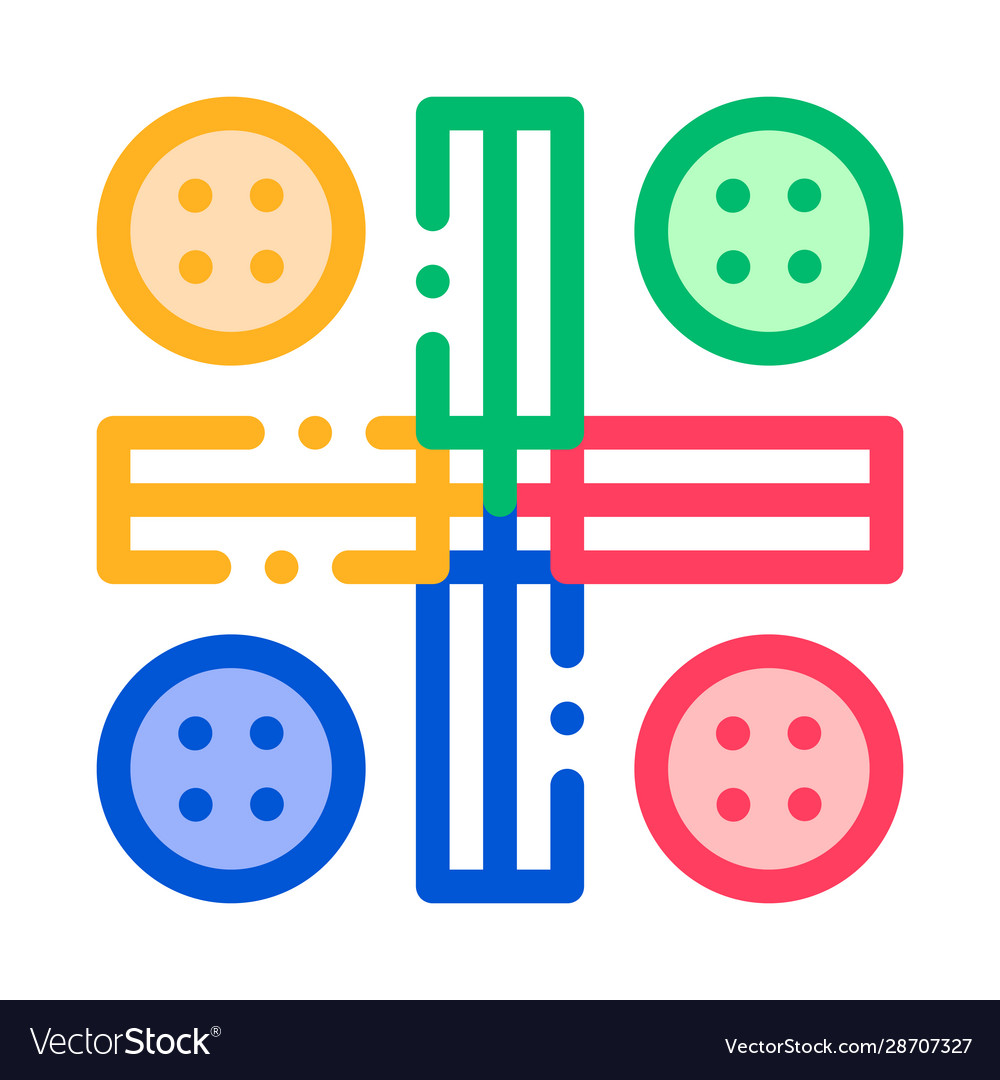
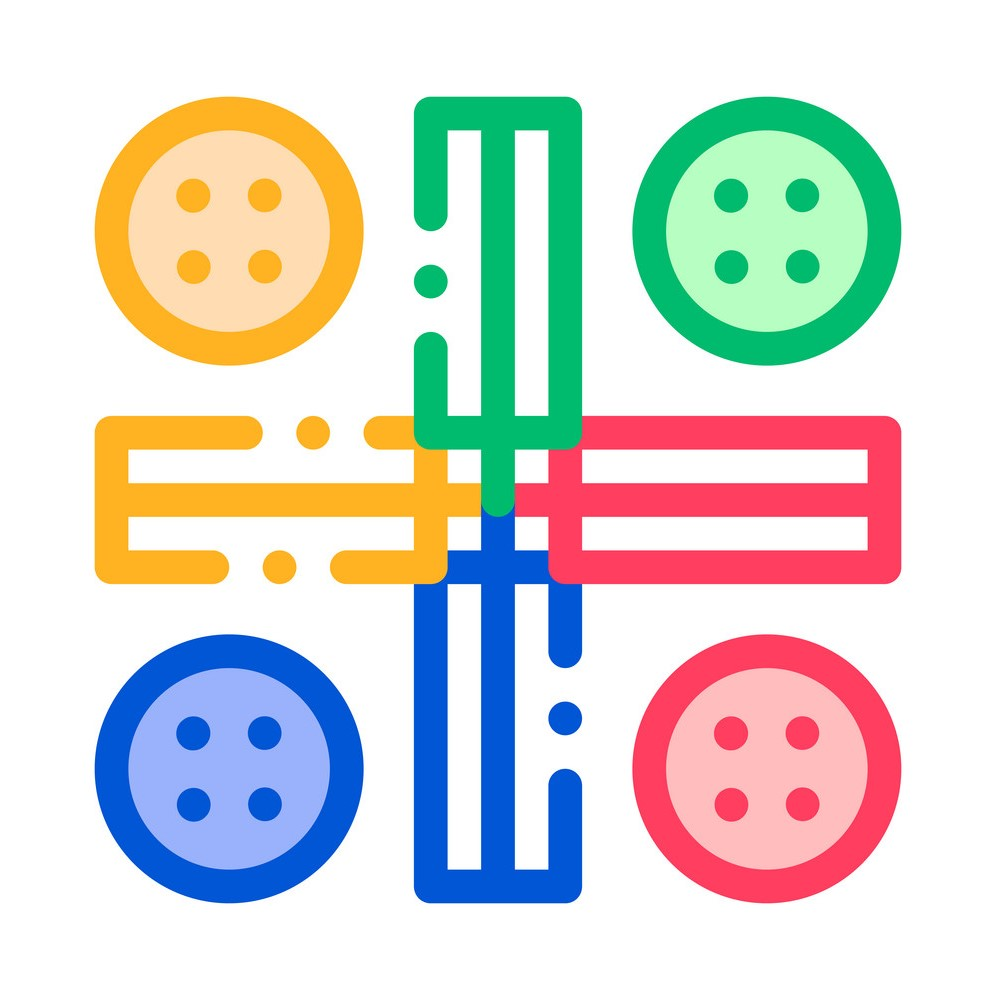
add window, background and imageicon in homeUi

diff --git a/ui/homeUi.py b/ui/homeUi.py
@@ -1,0 +1,42 @@
+import pygame
+pygame.init()
+
+gameRunning = True
+screen = pygame.display.set_mode((1450, 700))
+
+def setWindow():
+    pygame.display.set_caption("Ludo Board Game")
+    iconLogo = pygame.image.load("../asset/img/gameIcon.jpg")
+    pygame.display.set_icon(iconLogo)
+
+def setBackground():
+    background = pygame.image.load("../asset/img/gameBg.jpg")
+    background = pygame.transform.scale(background, (1450, 700))
+    screen.blit(background, (0,0))
+
+def setTitle():
+    titleColor = (255, 227, 169)
+    font = pygame.font.Font('freesansbold.ttf', 48)
+    titleFont = font.render('Ludo Board Game', True, titleColor)
+    screen.blit(titleFont, (500, 50))
+
+def setImageIcon():
+    imageIcon = pygame.image.load("../asset/img/gameIcon.jpg")
+    imageIcon = pygame.transform.scale(imageIcon, (400, 400))
+    screen.blit(imageIcon, (150, 175))
+
+# def setPlayButton():
+#
+# def setRuleButton():
+#
+# def setExitButton():
+
+setWindow()
+while gameRunning:
+    setBackground()
+    setTitle()
+    setImageIcon()
+
+    for event in pygame.event.get():
+        if event.type == pygame.QUIT: gameRunning = False
+    pygame.display.update()

diff --git a/ui/gameUi.py b/ui/gameUi.py
@@ -99,7 +99,7 @@ def setChatBox():
     pygame.draw.rect(screen, colorTextArea, textAreaRect)
     screen.blit(textChatBox, (textAreaRect.x + 57.5, textAreaRect.y + 17.5))
 
-    #Draw the userIcon and enter button
+    #Draw the userIcon
     iconLogoPlayerTurn = pygame.image.load("../asset/img/playerIcon/icon1.png")
     iconLogoPlayerTurn = pygame.transform.scale(iconLogoPlayerTurn, (50, 50))
     screen.blit(iconLogoPlayerTurn, (1045, 515))
